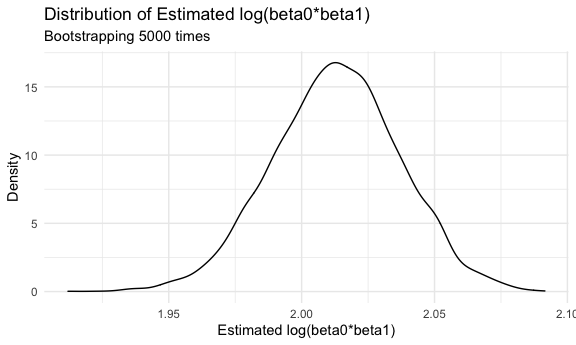
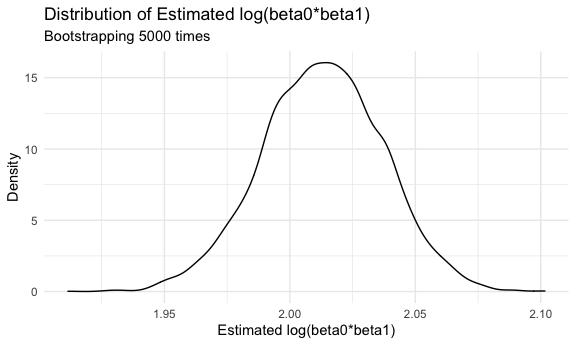
Cleaned and knitted after checking work

diff --git a/p8105_hw6_zak2132.md b/p8105_hw6_zak2132.md
@@ -60,19 +60,7 @@ baby_df =
     wtgain_grams = wtgain,
   ) %>% 
   select(-momheight, -momwt)
-```
 
-    ## Rows: 4342 Columns: 20
-
-    ## ── Column specification ────────────────────────────────────────────────────────
-    ## Delimiter: ","
-    ## dbl (20): babysex, bhead, blength, bwt, delwt, fincome, frace, gaweeks, malf...
-
-    ## 
-    ## ℹ Use `spec()` to retrieve the full column specification for this data.
-    ## ℹ Specify the column types or set `show_col_types = FALSE` to quiet this message.
-
-``` r
 # Check for missingness -- no missing values!
 baby_df %>% 
   skimr::skim() %>% 
@@ -110,7 +98,8 @@ the tibble:
 -   Converting relevant variables to factors with appropriate levels
 -   Ensuring consistency of units (grams and centimeters rather than
     pounds and inches for weight and height, respectively)
--   Checking for missingness; all variables havea 100% completeness rate
+-   Checking for missingness; all variables have a 100% completeness
+    rate
 
 ``` r
 # Explore head of data frame
@@ -232,14 +221,15 @@ baby_df %>%
 
 <img src="p8105_hw6_zak2132_files/figure-gfm/unnamed-chunk-3-1.png" width="90%" />
 
-Birthweight appears roughly normally distributed, with mean of
-3114.4039613 grams and SD of 512.1540963.
+Birthweight appears roughly normally distributed, with mean of 3114.4
+grams and SD of 512.15.
 
-Although unsure yet which continuous predictors we’ll use, we can choose
-a couple of potential ones to check the linearity assumption for fun as
-well:
+Although still unsure which continuous predictors we’ll use, we can
+choose a couple of potential ones to check the linearity assumption for
+fun as well:
 
 ``` r
+# Check distribution of baby weight vs mom weight
 bwt_vs_momwt = 
   baby_df %>% 
   ggplot(aes(x = bwt_grams, y = momwt_grams)) + 
@@ -251,6 +241,7 @@ bwt_vs_momwt =
     y = "Mom's Weight (g)"
   )
 
+# Check distribution of baby weight vs mom height
 bwt_vs_momht = 
   baby_df %>% 
   ggplot(aes(x = bwt_grams, y = momheight_cm)) + 
@@ -262,7 +253,7 @@ bwt_vs_momht =
     y = "Mom's Height (cm)"
   )
 
-bwt_vs_momwt + bwt_vs_momht
+bwt_vs_momwt / bwt_vs_momht
 ```
 
     ## `geom_smooth()` using method = 'gam' and formula 'y ~ s(x, bs = "cs")'
@@ -271,25 +262,26 @@ bwt_vs_momwt + bwt_vs_momht
 <img src="p8105_hw6_zak2132_files/figure-gfm/unnamed-chunk-4-1.png" width="90%" />
 
 We find a bend in the curve for both graphs at around baby’s weight of
-2500 grams. That said, we can proceed for now with linear regression
+3000 grams. That said, we can proceed for now with linear regression
 assuming we meet the linearity assumption, but may want to be cautious
 going forward after this finding.
 
 One way to approach model development is to hypothesize relevant
-covariates a priori, and then use the “best subset” procedure to select
-the ideal subset of covariates from our hypothesized superset based on
-the maximization of adjusted R-squared and minimization of BIC and Cp.
+covariates *a priori*, and then use the “best subset” procedure to
+select the ideal subset of covariates from our hypothesized superset
+based on the maximization of adjusted R-squared and minimization of BIC
+and Cp.
 
 Let’s begin by fitting a preliminary model using covariates we believe
 best predict birth weight. First, we exclude variables due to low cell
-counts or fewer than two levels, including `malform`, `pnumlbw`, and
-`pnumgsa`. Then, we can explore the literature on low birth weight,
-where we find some known associations with birth weight; for example,
-smoking is known to be associated with lower birth weight. Prior
-findings of significant association with birthweight include parental
-race, baby’s sex, baby’s head circumference and length at birth,
-gestational age, maternal height and age, and mother’s weight gain
-during pregnancy. We develop our preliminary model as follows
+counts or factorization with fewer than two levels, including `malform`,
+`pnumlbw`, and `pnumgsa`. Then, we can explore the literature on low
+birth weight, where we find some known associations with birth weight;
+for example, smoking is known to be associated with lower birth weight.
+Prior findings of significant association with birthweight include
+parental race, baby’s sex, baby’s head circumference and length at
+birth, gestational age, maternal height and age, and mother’s weight
+gain during pregnancy. We develop our preliminary model as follows
 
 ``` r
 # Proposed preliminary linear model
@@ -330,8 +322,8 @@ summary(prelim_model) %>%
 | dadraceBlack        |     6.151923 |  79.1644482 |   0.0777107 | 0.938    |
 
 A quick first glance at the data tells us that some promising covariates
-of the ones included in our preliminary model are `babysex`, `babyhead`,
-`babylength`, `gaweeks`, `momheight_cm`, `avg_daily_cigs`, and
+of the ones included in our preliminary model are `babysex`, `bhead`,
+`blength`, `gaweeks`, `momheight_cm`, `avg_daily_cigs`, and
 `wtgain_grams`, which all have p-values under 0.05.
 
 With this initial model, we can use the “best subset” method to
@@ -363,7 +355,8 @@ stats_summary_subsets = data.frame(
 subset_models =
   as.data.frame(best_subset_summary$outmat) %>% 
   cbind(stats_summary_subsets) %>% 
-  arrange(desc(adjusted_r2), cp, bic)
+  arrange(desc(adjusted_r2), cp, bic) %>% 
+  select(adjusted_r2, cp, bic, everything())
 
 # Print summary overview of best subsets
 subset_models %>% 
@@ -372,19 +365,19 @@ subset_models %>%
   )
 ```
 
-|         | babysexMale | bhead | blength | dadraceBlack | dadraceOther | dadracePuerto Rican | dadraceWhite | gaweeks | momheight\_cm | momage | momraceBlack | momracePuerto Rican | momraceWhite | avg\_daily\_cigs | wtgain\_grams | adjusted\_r2 |      cp |      bic |
-|:--------|:------------|:------|:--------|:-------------|:-------------|:--------------------|:-------------|:--------|:--------------|:-------|:-------------|:--------------------|:-------------|:-----------------|:--------------|-------------:|--------:|---------:|
-| 8 ( 1 ) | \*          | \*    | \*      |              |              |                     |              | \*      | \*            |        |              |                     | \*           | \*               | \*            |         0.71 |   10.67 | -5371.33 |
-| 7 ( 1 ) |             | \*    | \*      |              |              |                     |              | \*      | \*            |        |              |                     | \*           | \*               | \*            |         0.71 |   21.34 | -5367.03 |
-| 6 ( 1 ) |             | \*    | \*      |              |              |                     |              | \*      |               |        |              |                     | \*           | \*               | \*            |         0.71 |   65.02 | -5330.02 |
-| 5 ( 1 ) |             | \*    | \*      |              |              |                     |              | \*      |               |        |              |                     | \*           |                  | \*            |         0.71 |  124.61 | -5277.95 |
-| 4 ( 1 ) |             | \*    | \*      |              |              |                     |              |         |               |        |              |                     | \*           |                  | \*            |         0.70 |  183.84 | -5227.05 |
-| 3 ( 1 ) |             | \*    | \*      |              |              |                     |              |         |               |        |              |                     | \*           |                  |               |         0.70 |  280.94 | -5141.17 |
-| 2 ( 1 ) |             | \*    | \*      |              |              |                     |              |         |               |        |              |                     |              |                  |               |         0.68 |  506.39 | -4940.65 |
-| 1 ( 1 ) |             | \*    |         |              |              |                     |              |         |               |        |              |                     |              |                  |               |         0.56 | 2376.33 | -3529.91 |
+|         | adjusted\_r2 |      cp |      bic | babysexMale | bhead | blength | dadraceBlack | dadraceOther | dadracePuerto Rican | dadraceWhite | gaweeks | momheight\_cm | momage | momraceBlack | momracePuerto Rican | momraceWhite | avg\_daily\_cigs | wtgain\_grams |
+|:--------|-------------:|--------:|---------:|:------------|:------|:--------|:-------------|:-------------|:--------------------|:-------------|:--------|:--------------|:-------|:-------------|:--------------------|:-------------|:-----------------|:--------------|
+| 8 ( 1 ) |         0.71 |   10.67 | -5371.33 | \*          | \*    | \*      |              |              |                     |              | \*      | \*            |        |              |                     | \*           | \*               | \*            |
+| 7 ( 1 ) |         0.71 |   21.34 | -5367.03 |             | \*    | \*      |              |              |                     |              | \*      | \*            |        |              |                     | \*           | \*               | \*            |
+| 6 ( 1 ) |         0.71 |   65.02 | -5330.02 |             | \*    | \*      |              |              |                     |              | \*      |               |        |              |                     | \*           | \*               | \*            |
+| 5 ( 1 ) |         0.71 |  124.61 | -5277.95 |             | \*    | \*      |              |              |                     |              | \*      |               |        |              |                     | \*           |                  | \*            |
+| 4 ( 1 ) |         0.70 |  183.84 | -5227.05 |             | \*    | \*      |              |              |                     |              |         |               |        |              |                     | \*           |                  | \*            |
+| 3 ( 1 ) |         0.70 |  280.94 | -5141.17 |             | \*    | \*      |              |              |                     |              |         |               |        |              |                     | \*           |                  |               |
+| 2 ( 1 ) |         0.68 |  506.39 | -4940.65 |             | \*    | \*      |              |              |                     |              |         |               |        |              |                     |              |                  |               |
+| 1 ( 1 ) |         0.56 | 2376.33 | -3529.91 |             | \*    |         |              |              |                     |              |         |               |        |              |                     |              |                  |               |
 
 We select the best model of the subsets by maximizing adjusted R2 and
-minimizing prediction error (cp and BIC in this case). The model that
+minimizing prediction error (Cp and BIC in this case). The model that
 best achieves these goals incorporates `babysex`, `bhead`, `blength`,
 `gaweeks`, `momheight_cm`, `momrace`, `avg_daily_cigs`, and
 `wtgain_grams`. This means we exclude `dadrace` and `momage` from our
@@ -549,9 +542,9 @@ rmse_df %>%
 
 | model     | mean\_RMSE |
 |:----------|-----------:|
-| model2    |   333.3882 |
-| model3    |   288.8237 |
-| my\_model |   274.4480 |
+| model2    |   332.5560 |
+| model3    |   288.7498 |
+| my\_model |   274.1626 |
 
 From the table, we observe that my model has the lowest mean RMSE across
 cross-validation trials. Let’s plot for comparison of RMSE
@@ -604,43 +597,32 @@ weather_df =
     tmin = tmin / 10,
     tmax = tmax / 10) %>%
   select(name, id, everything())
+
+# Check first 10 observations
+weather_df %>% 
+  head(10) %>% 
+  knitr::kable()
 ```
 
-    ## Registered S3 method overwritten by 'hoardr':
-    ##   method           from
-    ##   print.cache_info httr
-
-    ## using cached file: ~/Library/Caches/R/noaa_ghcnd/USW00094728.dly
-
-    ## date created (size, mb): 2021-10-05 10:29:46 (7.602)
-
-    ## file min/max dates: 1869-01-01 / 2021-10-31
-
-``` r
-weather_df
-```
-
-    ## # A tibble: 365 × 6
-    ##    name           id          date        prcp  tmax  tmin
-    ##    <chr>          <chr>       <date>     <dbl> <dbl> <dbl>
-    ##  1 CentralPark_NY USW00094728 2017-01-01     0   8.9   4.4
-    ##  2 CentralPark_NY USW00094728 2017-01-02    53   5     2.8
-    ##  3 CentralPark_NY USW00094728 2017-01-03   147   6.1   3.9
-    ##  4 CentralPark_NY USW00094728 2017-01-04     0  11.1   1.1
-    ##  5 CentralPark_NY USW00094728 2017-01-05     0   1.1  -2.7
-    ##  6 CentralPark_NY USW00094728 2017-01-06    13   0.6  -3.8
-    ##  7 CentralPark_NY USW00094728 2017-01-07    81  -3.2  -6.6
-    ##  8 CentralPark_NY USW00094728 2017-01-08     0  -3.8  -8.8
-    ##  9 CentralPark_NY USW00094728 2017-01-09     0  -4.9  -9.9
-    ## 10 CentralPark_NY USW00094728 2017-01-10     0   7.8  -6  
-    ## # … with 355 more rows
+| name            | id          | date       | prcp | tmax | tmin |
+|:----------------|:------------|:-----------|-----:|-----:|-----:|
+| CentralPark\_NY | USW00094728 | 2017-01-01 |    0 |  8.9 |  4.4 |
+| CentralPark\_NY | USW00094728 | 2017-01-02 |   53 |  5.0 |  2.8 |
+| CentralPark\_NY | USW00094728 | 2017-01-03 |  147 |  6.1 |  3.9 |
+| CentralPark\_NY | USW00094728 | 2017-01-04 |    0 | 11.1 |  1.1 |
+| CentralPark\_NY | USW00094728 | 2017-01-05 |    0 |  1.1 | -2.7 |
+| CentralPark\_NY | USW00094728 | 2017-01-06 |   13 |  0.6 | -3.8 |
+| CentralPark\_NY | USW00094728 | 2017-01-07 |   81 | -3.2 | -6.6 |
+| CentralPark\_NY | USW00094728 | 2017-01-08 |    0 | -3.8 | -8.8 |
+| CentralPark\_NY | USW00094728 | 2017-01-09 |    0 | -4.9 | -9.9 |
+| CentralPark\_NY | USW00094728 | 2017-01-10 |    0 |  7.8 | -6.0 |
 
 #### Bootstrapping
 
 Developing a simple linear regression with `tmax` as the response and
 `tmin` as the predictor, we’re interested in the distribution of the
-estimated r-squared and log(beta\_0\*beta\_1). First, let’s bootstrap
-5000 times:
+estimated r-squared and log(*β*<sub>0</sub> \* *β*<sub>1</sub>). First,
+let’s bootstrap 5000 times:
 
 ``` r
 # Bootstrap 5000 times
@@ -684,15 +666,7 @@ bootstrap_df =
     logb0_b1 = log(beta0 * beta1)
   ) %>% 
   select(-beta0, -beta1)
-```
 
-    ## New names:
-    ## * statistic -> statistic...5
-    ## * p.value -> p.value...6
-    ## * statistic -> statistic...10
-    ## * p.value -> p.value...11
-
-``` r
 # Check head of bootstrap df
 bootstrap_df %>% 
   head(10) %>% 
@@ -703,16 +677,16 @@ bootstrap_df %>%
 
 | strap\_num | r.squared | logb0\_b1 |
 |:-----------|----------:|----------:|
-| 0001       |      0.92 |      2.00 |
-| 0002       |      0.93 |      2.03 |
-| 0003       |      0.90 |      2.08 |
-| 0004       |      0.92 |      2.01 |
-| 0005       |      0.91 |      2.01 |
-| 0006       |      0.91 |      2.01 |
-| 0007       |      0.91 |      2.04 |
-| 0008       |      0.90 |      2.00 |
-| 0009       |      0.91 |      1.99 |
-| 0010       |      0.92 |      1.99 |
+| 0001       |      0.91 |      2.05 |
+| 0002       |      0.91 |      2.01 |
+| 0003       |      0.90 |      2.00 |
+| 0004       |      0.92 |      1.95 |
+| 0005       |      0.92 |      2.01 |
+| 0006       |      0.92 |      2.01 |
+| 0007       |      0.91 |      2.01 |
+| 0008       |      0.90 |      2.04 |
+| 0009       |      0.90 |      2.03 |
+| 0010       |      0.91 |      2.04 |
 
 #### R-squared
 
@@ -737,7 +711,7 @@ r_squared %>%
 
 | lower\_ci | upper\_ci |
 |----------:|----------:|
-|     0.894 |     0.927 |
+|     0.894 |     0.928 |
 
 Our 95% confidence interval ranges from 0.894 to 0.927. And we can also
 plot the distribution of our estimated r-squared as follows:
@@ -759,13 +733,13 @@ bootstrap_df %>%
 <img src="p8105_hw6_zak2132_files/figure-gfm/unnamed-chunk-14-1.png" width="90%" />
 
 We find from this graph that the R-squared values from bootstrapping
-appear normally distributed with mean 0.912 and SD 0.008.
+appear normally distributed with mean 0.912 and SD 0.009.
 
-#### log(B\_0 \* B\_1)
+#### log(*β*<sub>0</sub> \* *β*<sub>1</sub>)
 
 Similarly, we can extract the 95% confidence interval for the estimated
-log(beta\_0 \* beta\_1) when we perform a simple linear regression
-`tmax ~ tmin`.
+log(*β*<sub>0</sub> \* *β*<sub>1</sub>) when we perform a simple linear
+regression `tmax ~ tmin`.
 
 ``` r
 # Find 95% confidence interval for log(beta0*beta1)
@@ -785,7 +759,7 @@ log_b0_b1 %>%
 
 | lower\_ci | upper\_ci |
 |----------:|----------:|
-|     1.965 |     2.059 |
+|     1.964 |      2.06 |
 
 And also can plot its distribution across the 5000 bootstraps:
 
@@ -806,5 +780,5 @@ bootstrap_df %>%
 <img src="p8105_hw6_zak2132_files/figure-gfm/unnamed-chunk-16-1.png" width="90%" />
 
 Our 95% confidence interval ranges from 1.965 to 2.060. Again, it
-appears our estimated log(b0 \* b1) is normally distributed with mean
-2.013 and SD 0.024.
+appears our estimated log(*β*<sub>0</sub> \* *β*<sub>1</sub>) is roughly
+normally distributed with mean 2.013 and SD 0.024.
